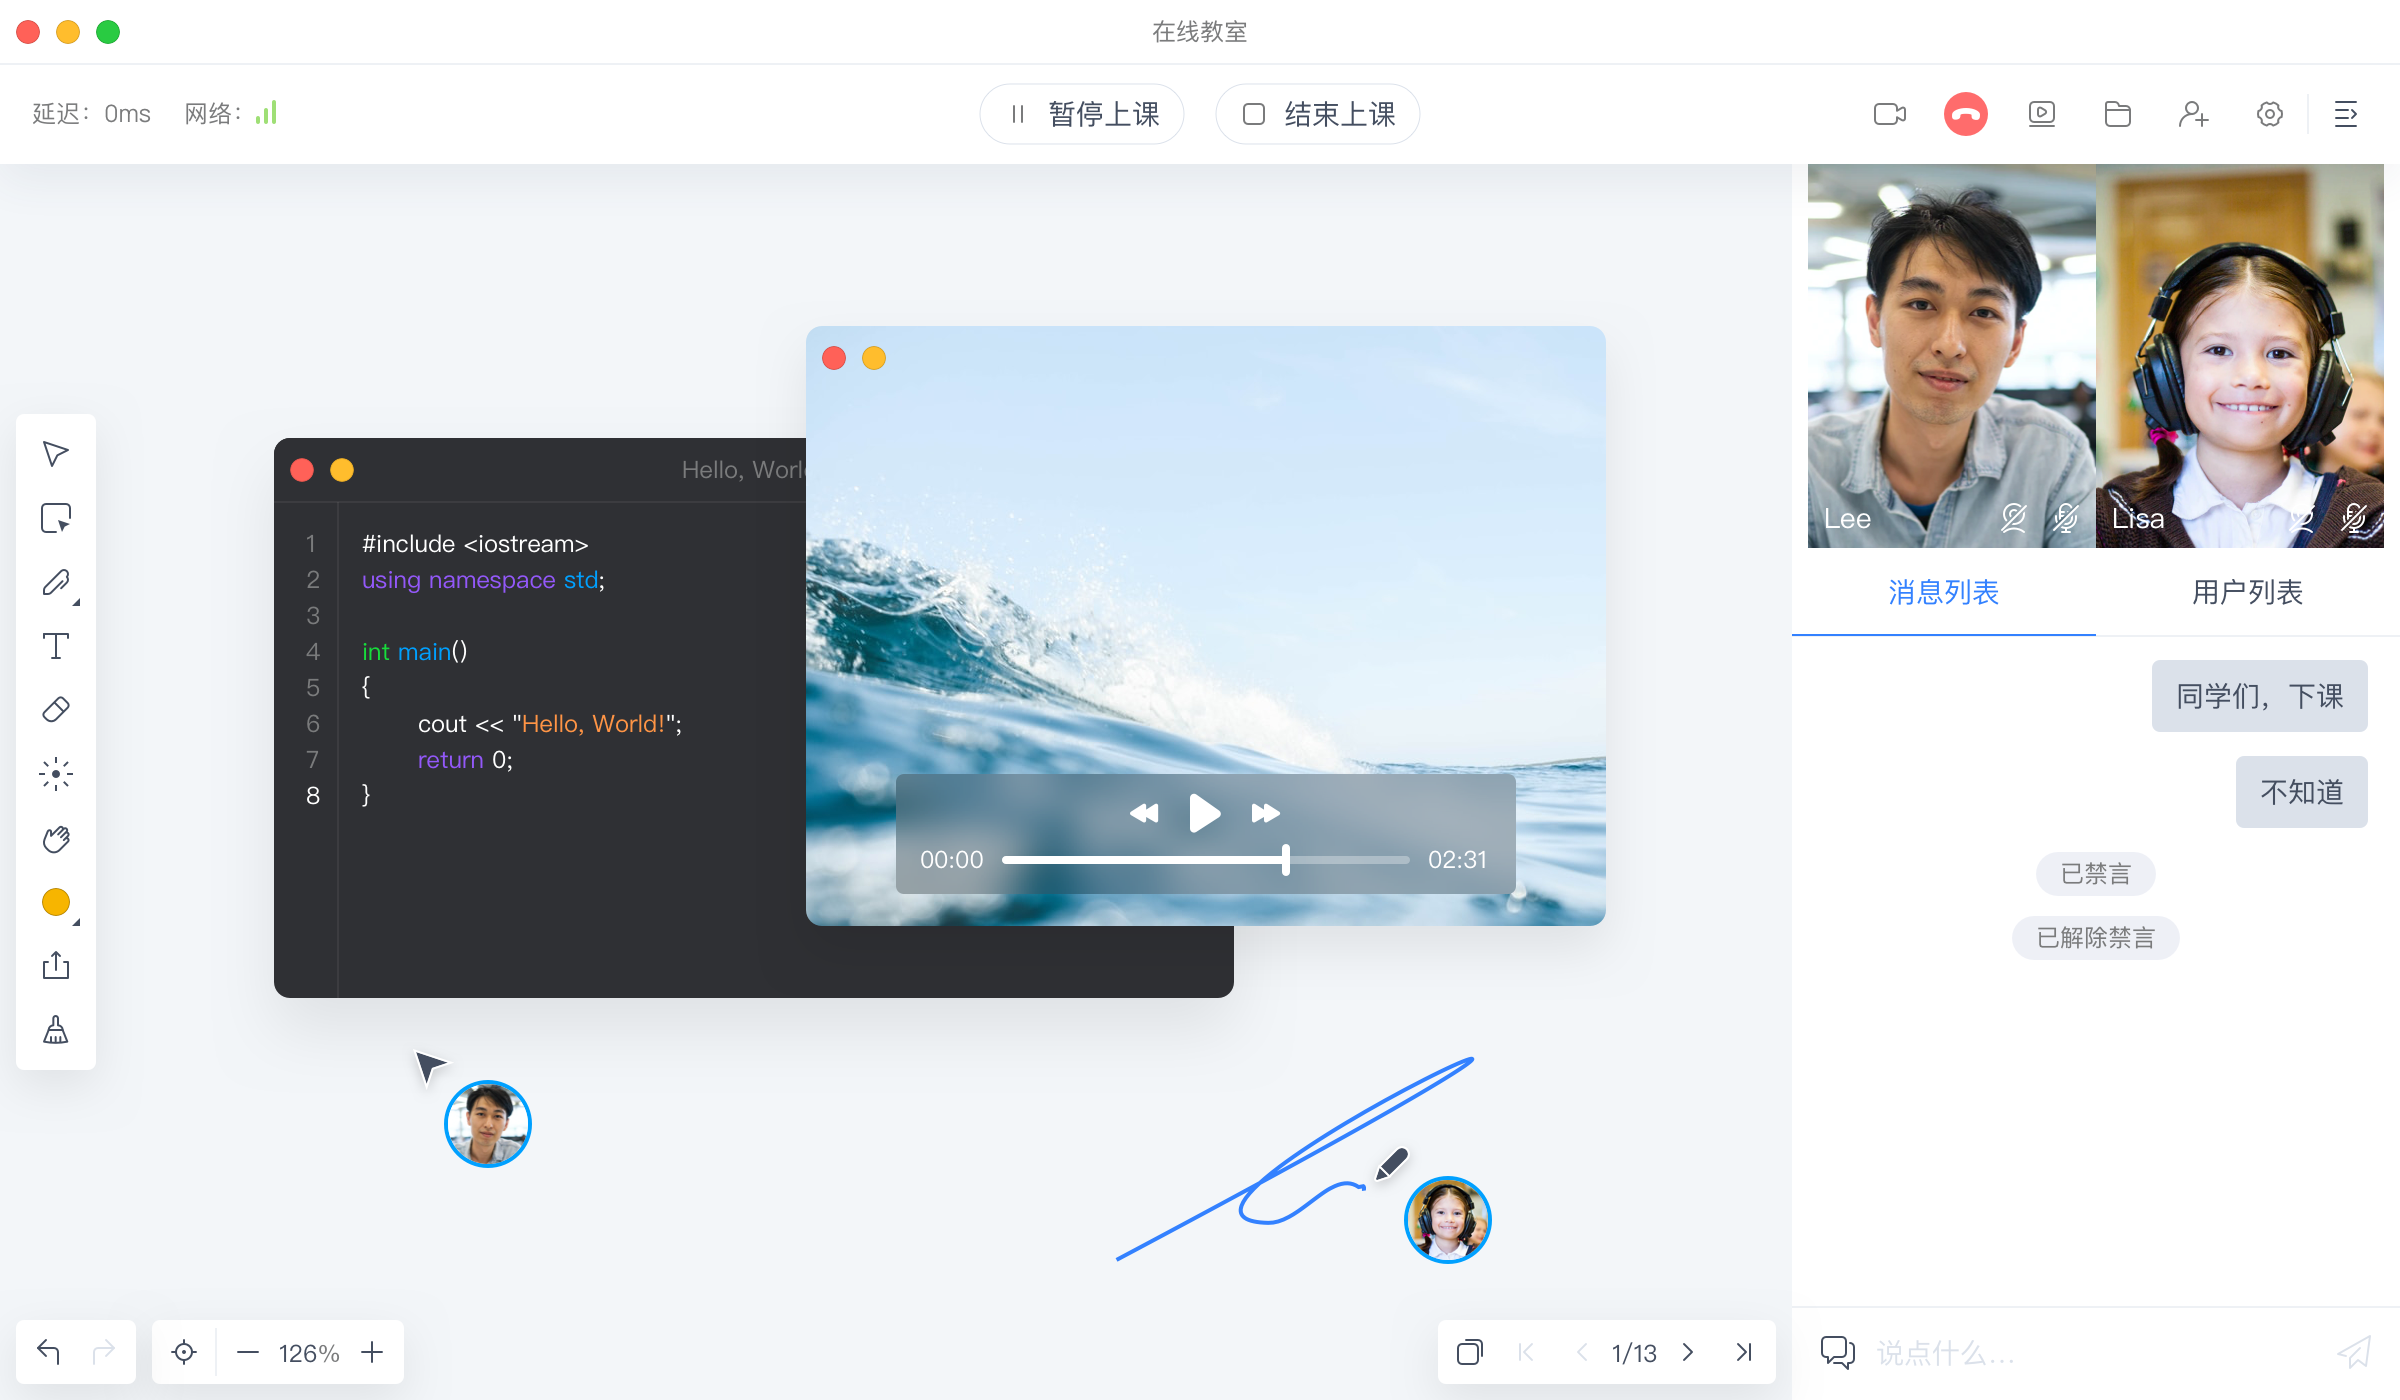
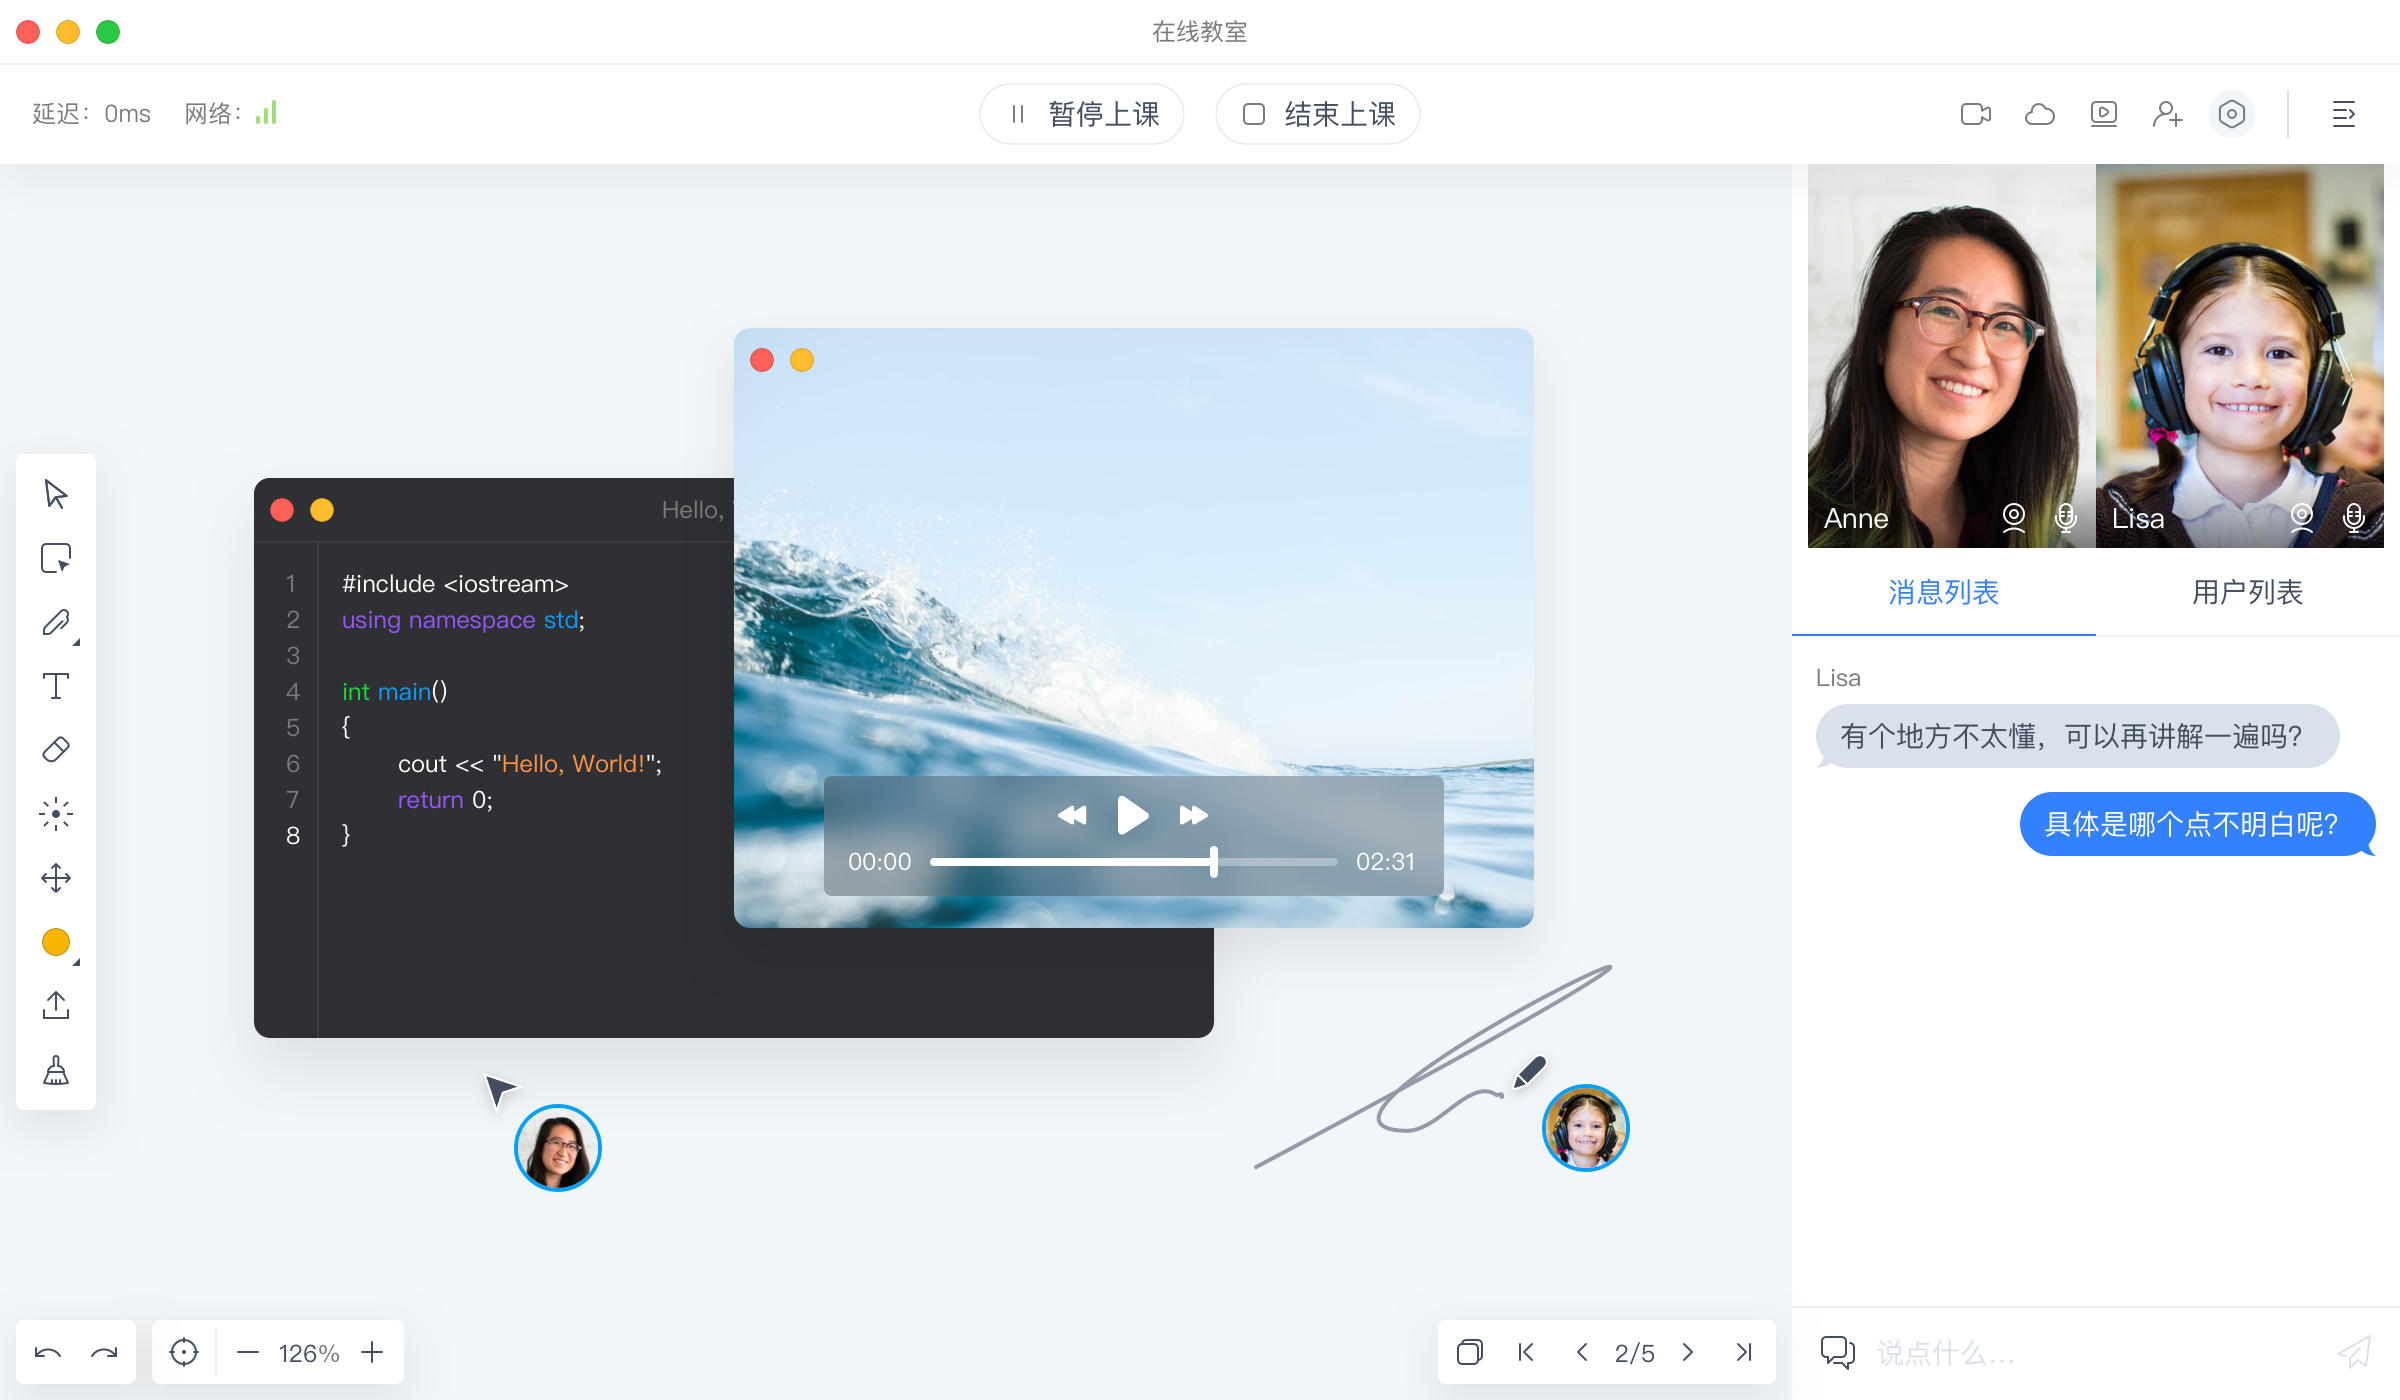
docs(readme): add en picture

diff --git a/README.md b/README.md
@@ -3,7 +3,7 @@
 <h1>Agora Flat</h1>
 <p>Project flat is the Web(under development), Windows and macOS client of <a href="https://flat.whiteboard.agora.io/en/">Agora Flat</a> open source classroom.</p>
 <p><a href="./README-zh.md">中文</a></p>
-<img src="./assets/flat-showcase.png">
+<img src="./assets/flat-showcase-en.png">
 </div>
 
 ## Try it now
